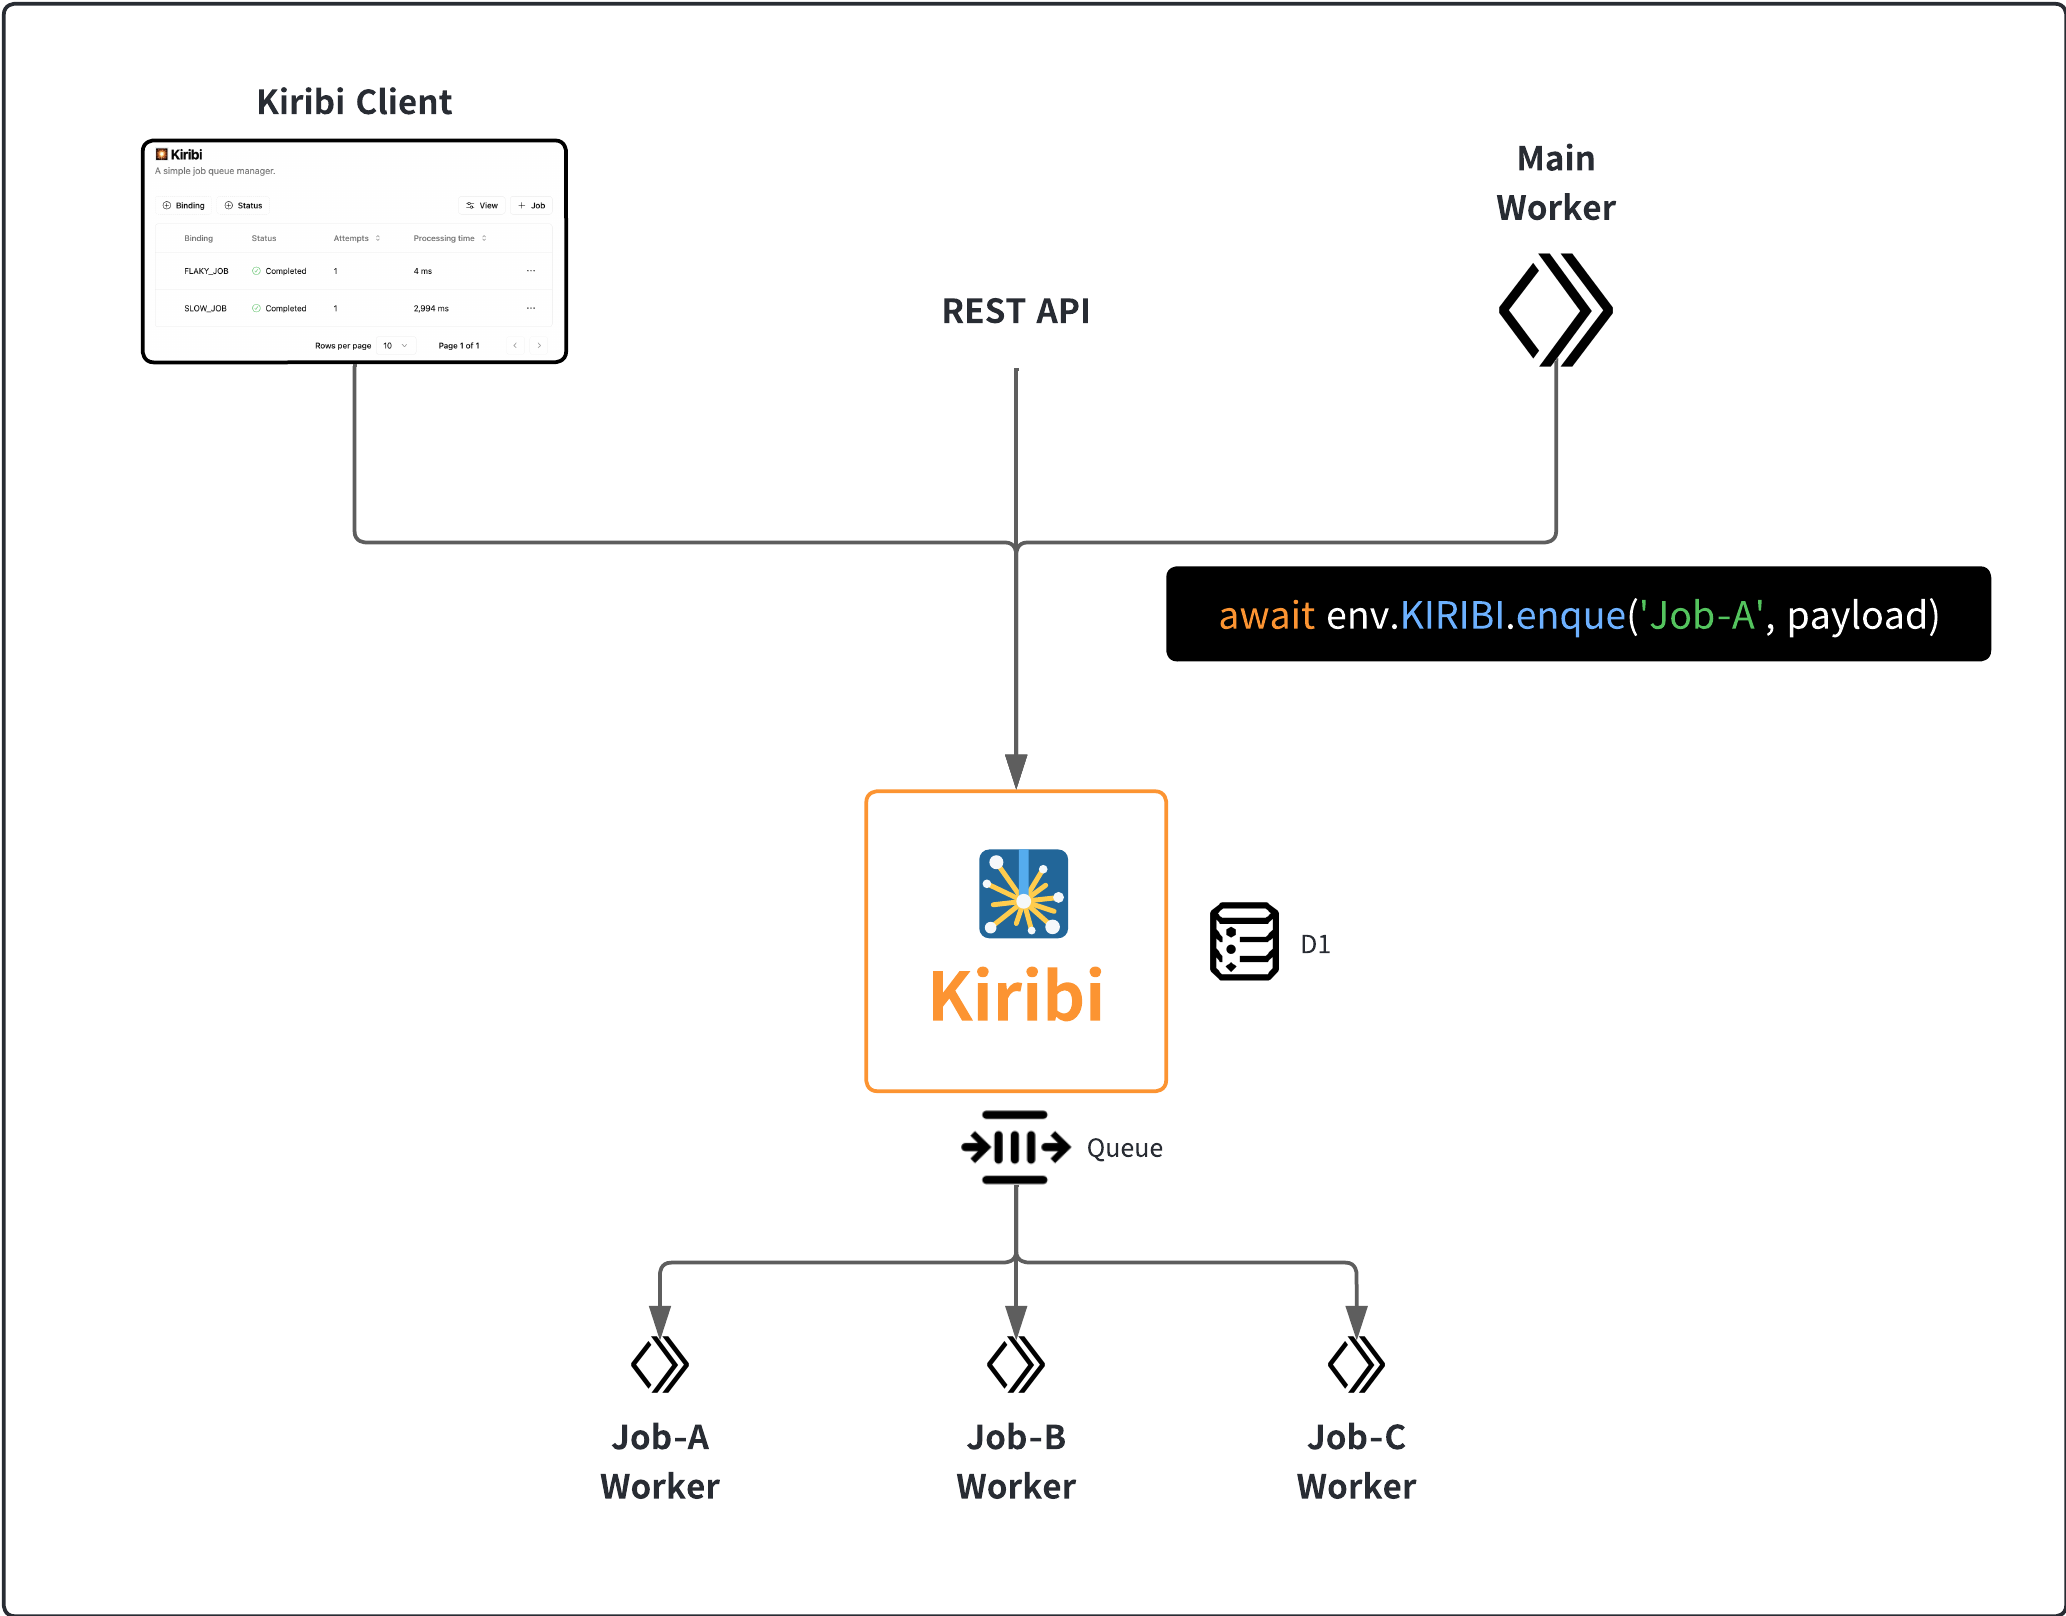
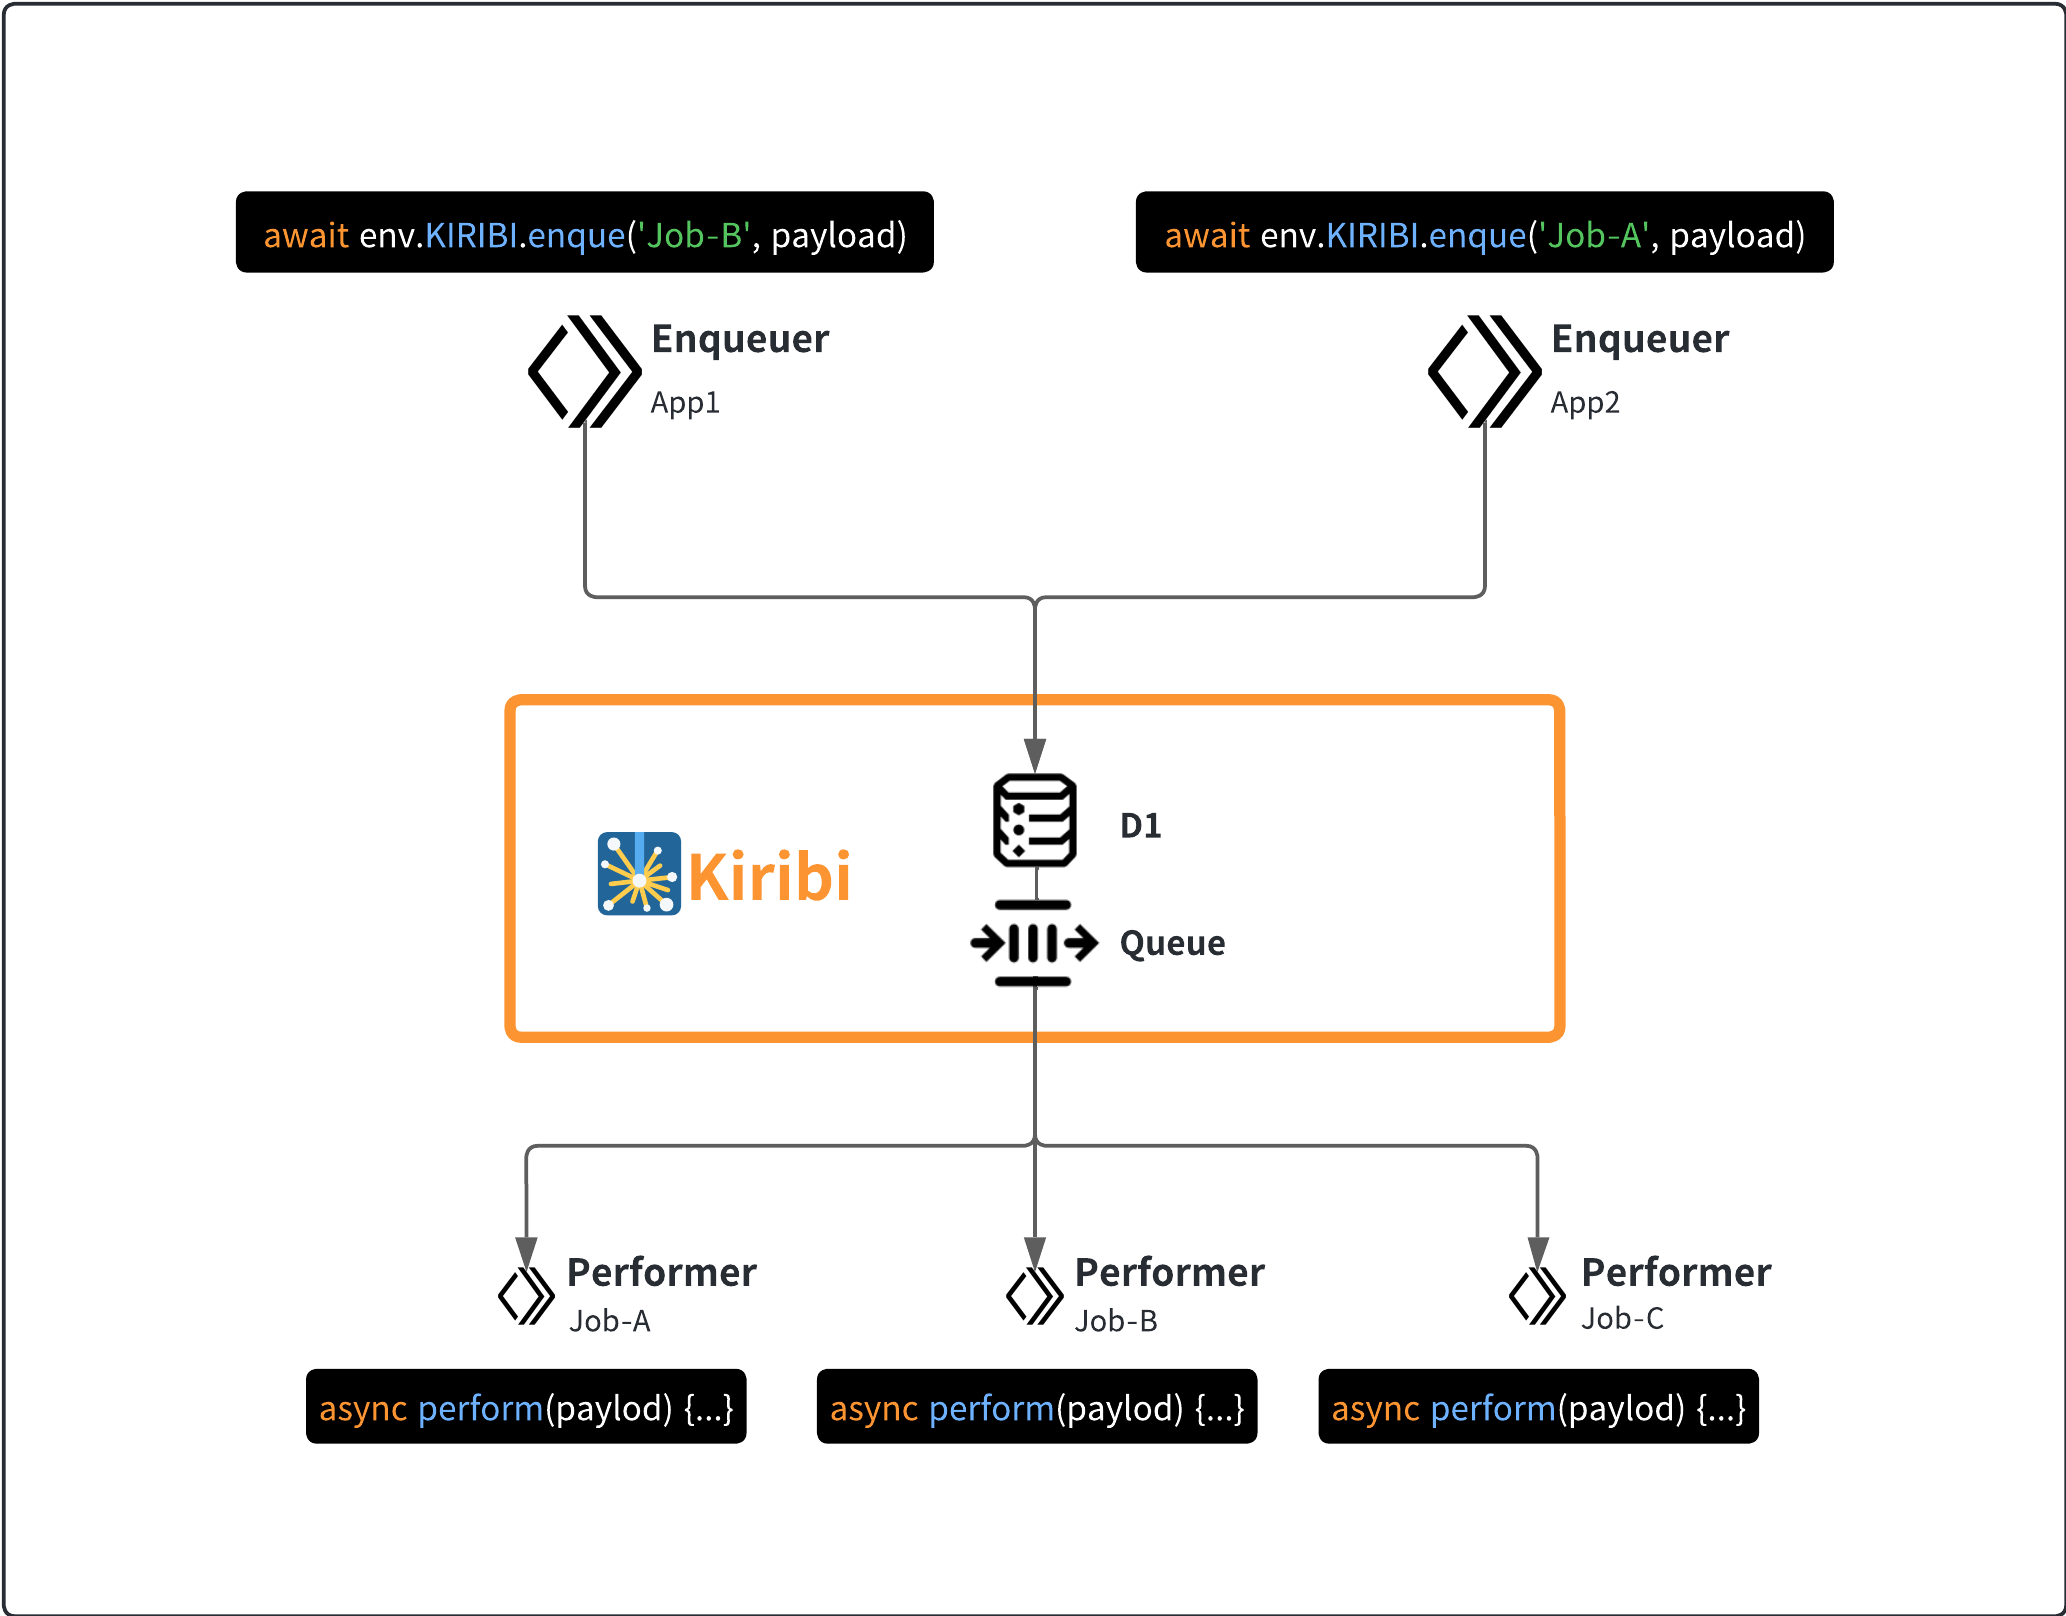
rename module name `worker` to `performer` and update documents

diff --git a/example/src/index.ts b/example/src/index.ts
@@ -13,9 +13,9 @@ export default class extends Kiribi {
 }
 
 // performer workers; You can split these classes into another worker
-import { KiribiWorker } from 'kiribi/worker';
+import { KiribiPerformer } from 'kiribi/performer';
 
-export class SlowJob extends KiribiWorker {
+export class SlowJob extends KiribiPerformer {
 	async perform(payload: unknown) {
 		assertPayloadForSlowJob(payload);
 		await new Promise((r) => setTimeout(r, Math.max(Math.min(15000, payload.delay), 1000)));
@@ -28,7 +28,7 @@ function assertPayloadForSlowJob(payload: unknown): asserts payload is { delay: 
 	if (typeof payload.delay !== 'number') throw new Error('Invalid payload; input `{ "delay": 1000~15000 }`');
 }
 
-export class FlakyJob extends KiribiWorker {
+export class FlakyJob extends KiribiPerformer {
 	async perform(payload: unknown) {
 		assertPayloadForFlakyJob(payload);
 		if (Math.random() > Math.max(Math.min(1, payload.chance), 0)) throw new Error('Failed to perform job because of your daily behavior');

diff --git a/main/worker/index.ts b/main/worker/index.ts
@@ -1,5 +1,5 @@
 import { Kiribi } from '../src';
-import { KiribiWorker } from '../src/worker';
+import { KiribiPerformer } from '../src/performer';
 import { client } from '../src/client';
 import { rest } from '../src/rest';
 
@@ -9,13 +9,13 @@ export default class extends Kiribi {
 }
 
 // you can split this class into another worker
-export class SlowJob extends KiribiWorker {
+export class SlowJob extends KiribiPerformer {
 	async perform(payload: number | string) {
 		await new Promise((r) => setTimeout(r, payload ? Number(payload) : 30000));
 	}
 }
 
-export class FlakyJob extends KiribiWorker {
+export class FlakyJob extends KiribiPerformer {
 	async perform(payload: number | string) {
 		const chance = payload ? Number(payload) : 0.5;
 		if (Math.random() > chance) throw new Error('Failed to perform job because of your daily behavior');

diff --git a/main/src/index.ts b/main/src/index.ts
@@ -2,7 +2,7 @@ import { WorkerEntrypoint } from 'cloudflare:workers';
 import { PrismaD1 } from '@prisma/adapter-d1';
 import { type Job, type Prisma, PrismaClient } from '@prisma/client';
 import { Hono } from 'hono';
-import { type KiribiWorker } from './worker';
+import { type KiribiPerformer } from './performer';
 import { type Rest } from './rest';
 import { type Client } from './client';
 
@@ -15,7 +15,7 @@ const jobStatus = {
 	cancelled: 'CANCELLED',
 };
 
-type Bindings = { KIRIBI_DB: D1Database; KIRIBI_QUEUE: Queue } & { [x: string]: Service<KiribiWorker> };
+type Bindings = { KIRIBI_DB: D1Database; KIRIBI_QUEUE: Queue } & { [x: string]: Service<KiribiPerformer> };
 
 type Result = { status: 'success' | 'failed'; error: string | null; startedAt: number; finishedAt: number; processingTime: number };
 

diff --git a/main/src/rest.ts b/main/src/rest.ts
@@ -95,10 +95,10 @@ app.patch('/jobs/:id/cancel', async (c) => {
 app.get('/bindings', async (c) => {
 	const bindings = await Promise.all(
 		Object.entries(c.env).map(async ([name, binding]) => {
-			if (!('isJobWorker' in binding)) return [name, false] as const;
+			if (!('isPerformer' in binding)) return [name, false] as const;
 			try {
 				// @ts-ignore
-				await binding.isJobWorker();
+				await binding.isPerformer();
 			} catch (_) {
 				return [name, false] as const;
 			}

diff --git a/main/src/performer.ts b/main/src/performer.ts
@@ -1,0 +1,12 @@
+import { WorkerEntrypoint } from 'cloudflare:workers';
+
+export abstract class KiribiPerformer<P extends unknown = any> extends WorkerEntrypoint {
+	fetch() {
+		return new Response('This is Kiribi Performer');
+	}
+	isPerformer() {
+		return true;
+	}
+
+	abstract perform(payload: P): void | Promise<void>;
+}

diff --git a/doc/getting-started.md b/doc/getting-started.md
@@ -1,8 +1,16 @@
 # Getting Started
 
-## 1. Create a Job Manager (Kiribi worker)
+![Overview](/overview.png)
 
-<img src="/kiribi-worker.png" width="420px">
+In this section, we will build in three parts.
+- Job Manager (Kiribi worker): The center of the overview diagram
+  - Receives and manages job queues
+- Performer (Job processing worker): The lower part of the overview diagram
+  - Processes job queues
+- Enqueuer (Job enqueuing worker): The upper part of the overview diagram
+  - Enqueues job queues
+
+## 1. Create a Job Manager (Kiribi worker)
 
 Use `create-cloudflare-cli` (C3) to build the base worker.<br>
 You will be asked for the project name, so feel free to set it as you like.
@@ -110,9 +118,7 @@ service = "my-kiribi"                                               // [!code --
 ```
 :::
 
-## 2. Create job processing workers
-
-<img src="/processing-workers.png" width="420px">
+## 2. Create Performers (Job processing workers)
 
 Create a worker to process jobs enqueued in Kiribi.<br>
 You can add this worker to the Kiribi worker created in the previous step, or you can create it as a separate worker.<br>
@@ -123,16 +129,16 @@ Add the following to `src/index.ts`.
 
 ```typescript
 import { Kiribi } from 'kiribi'
-import { KiribiWorker } from 'kiribi/worker' // [!code ++]
+import { KiribiPerformer } from 'kiribi/performer' // [!code ++]
 
 export default class extends Kiribi {}
 
-export class MyJobWorker extends KiribiWorker { // [!code ++]
-  async perform(payload) {                      // [!code ++]
-    // Do something with the payload            // [!code ++]
-    console.log('Job Worker', payload)          // [!code ++]
-  }                                             // [!code ++]
-}                                               // [!code ++]
+export class MyPerformer extends KiribiPerformer { // [!code ++]
+  async perform(payload) {                         // [!code ++]
+    // Do something with the payload               // [!code ++]
+    console.log('perform', payload)                // [!code ++]
+  }                                                // [!code ++]
+}                                                  // [!code ++]
 ```
 
 For more information on `perform`, click [here](/how-to-use).
@@ -152,38 +158,39 @@ service = "my-kiribi"
 
 [[services]]                                                    // [!code ++]
 binding = "MY_JOB" # You can name the binding whatever you want // [!code ++]
-service = "my-job-worker" # same as `name`                      // [!code ++]
-entrypoint = "MyJobWorker" # the name of exported class         // [!code ++]
+service = "my-kiribi" # same as `name`                          // [!code ++]
+entrypoint = "MyPerformer" # the name of exported class         // [!code ++]
 ```
 
 ### Case of creating a separate worker
 
 If you want to separate the processing system from the Kiribi worker, do the following.<br>
-The method of creating a worker is omitted.
+For example, create a worker named `my-performing-worker`.
+(The method of creating a worker is omitted.)
 
-Update the `src/index.ts` of the other worker as follows.
+Update the `src/index.ts` of `my-performer-worker` as follows.
 
 ```typescript
-import { KiribiWorker } from 'kiribi/worker'
+import { KiribiPerformer } from 'kiribi/performer'
 
 // There must be at least one default export
-export default class extends KiribiWorker {
+export default class extends KiribiPerformer {
   async perform(payload) {
     // Do something with the payload
-    console.log('Job Worker', payload)
+    console.log('perform', payload)
   }
 }
 
 // Add other workers as needed
-export class FooJobWorker extends KiribiWorker {
+export class FooPerformer extends KiribiPerformer {
   async perform(payload) {
     // Do something with the payload
-    console.log('Job Worker', payload)
+    console.log('perform', payload)
   }
 }
 ```
 
-Add the following to the `wrangler.toml` of the Kiribi worker.
+Add the following to the `wrangler.toml` of the Kiribi worker (`my-kiribi`).
 
 ```toml
 name = "my-kiribi"
@@ -196,25 +203,17 @@ main = "src/index.ts"
 binding = "KIRIBI"
 service = "my-kiribi"
 
-[[services]]                                                    // [!code ++]
-binding = "MY_JOB" # You can name the binding whatever you want // [!code ++]
-service = "other-job-worker" # The name of the job worker       // [!code ++]
-                                                                // [!code ++]
-[[services]]                                                    // [!code ++]
-binding = "FOO_JOB"                                             // [!code ++]
-service = "other-job-worker"                                    // [!code ++]
-entrypoint = "FooJobWorker" # the name of exported class        // [!code ++]
+[[services]]                                                        // [!code ++]
+binding = "MY_JOB" # You can name the binding whatever you want     // [!code ++]
+service = "my-performing-worker" # The name of the performer worker // [!code ++]
+                                                                    // [!code ++]
+[[services]]                                                        // [!code ++]
+binding = "FOO_JOB"                                                 // [!code ++]
+service = "my-performing-worker"                                    // [!code ++]
+entrypoint = "FooPerformer" # the name of exported class            // [!code ++]
 ```
 
-Deploy the worker.
-
-```bash
-npx wrangler deploy
-```
-
-## 3. Create enqueuing workers
-
-<img src="/enqueuing-worker.png" width="420px">
+## 3. Create Enqueuers (Job enqueuing workers)
 
 Create a worker to enqueue jobs in Kiribi.<br>
 The method of creating a worker is omitted.

diff --git a/doc/how-to-use.md b/doc/how-to-use.md
@@ -2,7 +2,7 @@
 
 ## Enqueue Job
 
-You can enqueue a job by calling the `enqueue` method of `KIRIBI` service.
+You can enqueue a job from enqueuer workers by calling the `enqueue` method of `KIRIBI` service.
 
 ```typescript
 import { Kiribi } from 'kiribi'
@@ -52,15 +52,15 @@ type EnqueueOptions = {
 
 ## Perform Job
 
-You can create a job worker by extending `KiribiWorker` and implementing the `perform` method.
+You can create job processing workers by extending `KiribiPerformer` and implementing the `perform` method.
 
 ```typescript
-import { KiribiWorker } from 'kiribi/worker'
+import { KiribiPerformer } from 'kiribi/performer'
 
-export default class extends KiribiWorker {
+export default class extends KiribiPerformer {
   async perform(payload) {
     // Do something with the payload
-    console.log('Job Worker', payload)
+    console.log('perform', payload)
   }
 }
 ```
@@ -70,11 +70,13 @@ export default class extends KiribiWorker {
 The `perform` method has the following signature:
 
 ```typescript
-type perform = (payload: any) => Promise<void>
+interface KiribiPerformer extends WorkerEntrypoint {
+  perform(payload: any): void | Promise<void>;
+}
 ```
 
 - `payload`(Required): The payload of the job.
   - The payload is the same as the one passed to the `enqueue` method.
-  - The payload can be any type.
+  - The payload can be any **json serializable** type.
 
 If thrown an error in the `perform` method, the job is retried according to the `maxRetries` and `retryDelay` set in the `enqueue` method.

diff --git a/main/README.md b/main/README.md
@@ -27,11 +27,11 @@ export default class extends Kiribi {
   rest = rest
 }
 
-import { KiribiJobWorker } from 'kiribi/worker'
+import { KiribiPerformer } from 'kiribi/performer'
 
-export class MyJobWorker extends KiribiJobWorker {
+export class MyPerformer extends KiribiPerformer {
   async perform(payload) {
-    console.log('Job Worker', payload)
+    console.log('preform', payload)
   }
 }
 ```
@@ -58,7 +58,7 @@ max_retries = 5
 
 [[services]]
 binding = "KIRIBI"
-service = "your-worker-name"
+service = "my-kiribi"
 
 [site]
 bucket = "./node_modules/kiribi/client"
@@ -66,7 +66,7 @@ bucket = "./node_modules/kiribi/client"
 [[services]]
 binding = "MY_JOB"
 service = "my-kiribi"
-entrypoint = "MyJobWorker"
+entrypoint = "MyPerformer"
 ```
 
 ```bash
